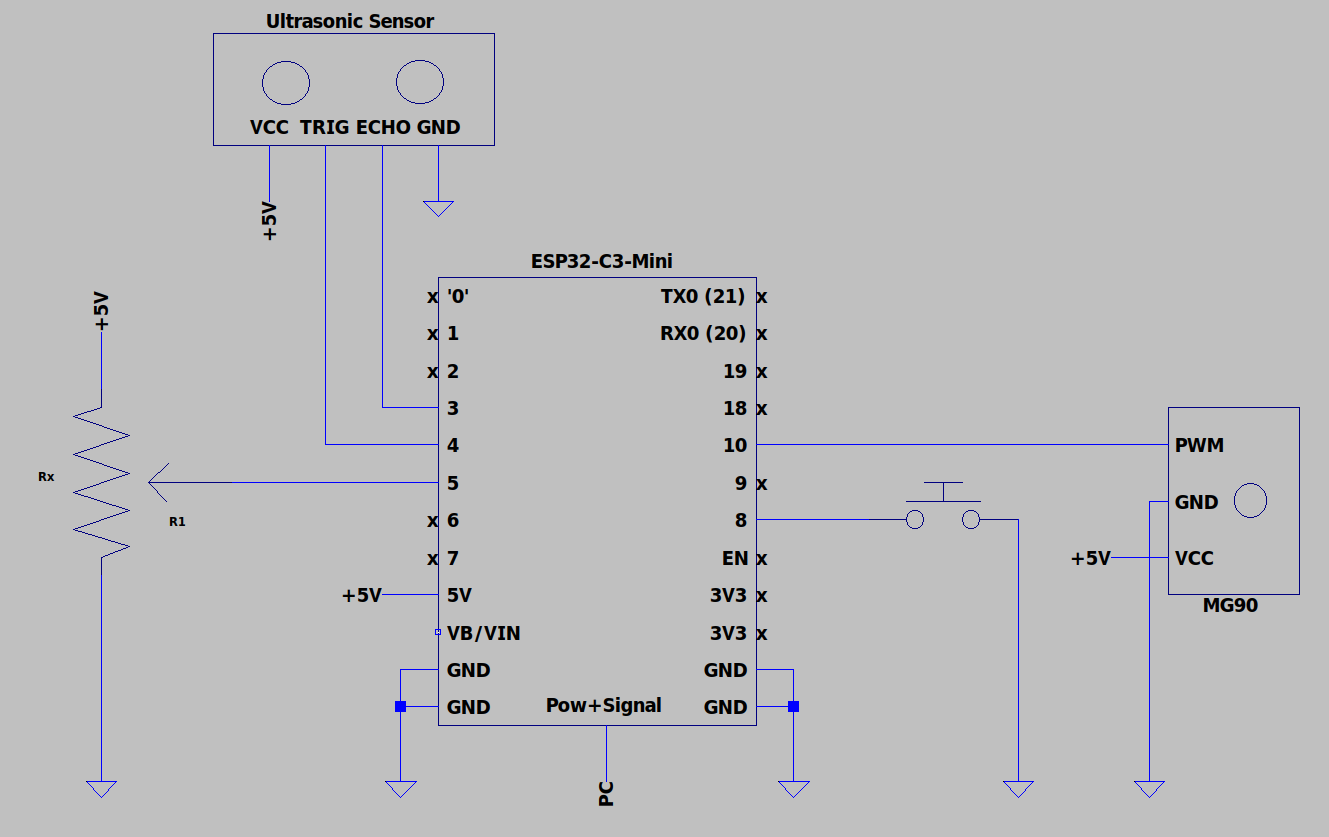
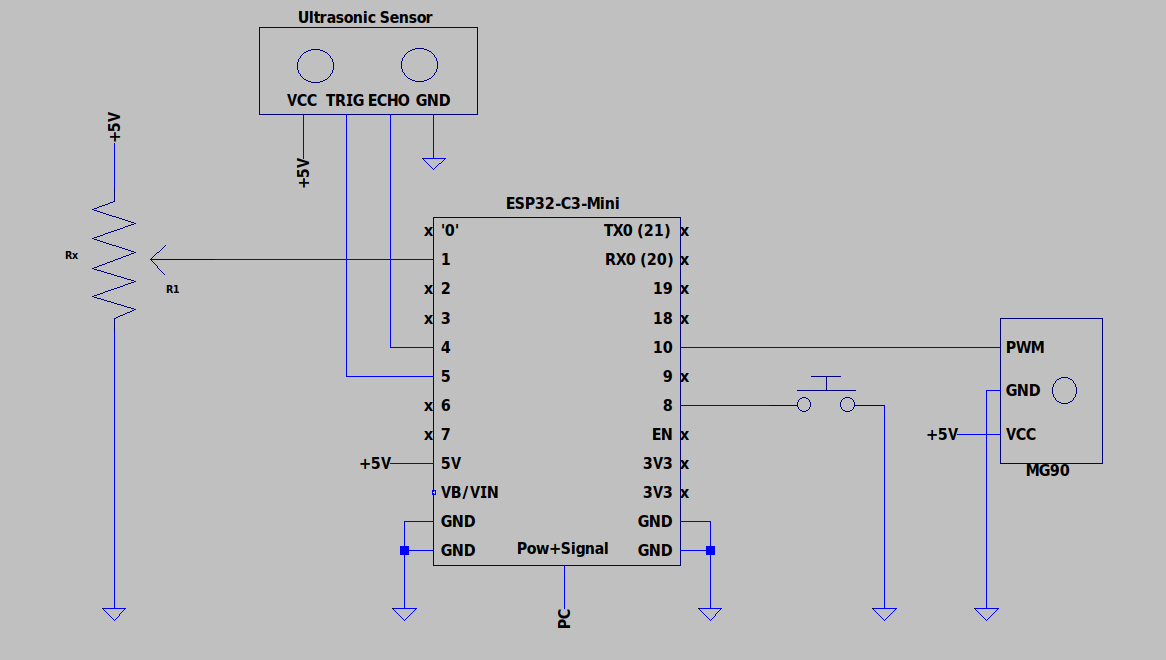
updated a bunch of stuff

diff --git a/src/mode_control.cpp b/src/mode_control.cpp
@@ -1,18 +1,17 @@
 #include "common.h"
 #include <Arduino.h>
 
-// ---------------- internal state ----------------
-static bool manualMode{false};
-
-static bool lastReading{HIGH};
-static bool stableState{HIGH};
-static unsigned long lastDebounceTime{0};
-static const unsigned long debounceDelay{20};  // Reduced from 50ms to 20ms
-
-static bool lastModeSnapshot{false};
+// ---------------- Shared state (must be at file scope) ----------------
+static bool manualMode{false};  // Shared between handleButton() and modeChangedToAuto()
 
 // ---------------- button handling ----------------
 bool handleButton() {
+    // Button debouncing state - local to this function
+    static bool lastReading{HIGH};
+    static bool stableState{HIGH};
+    static unsigned long lastDebounceTime{0};
+    static constexpr unsigned long debounceDelay{10};  // Reduced for faster response
+    
     bool reading{digitalRead(BUTTON_PIN)};
     unsigned long now{millis()};
 
@@ -37,6 +36,9 @@ bool handleButton() {
 
 // ---------------- transition detection ----------------
 bool modeChangedToAuto() {
+    // Transition tracking - local to this function
+    static bool lastModeSnapshot{false};
+    
     bool currentMode{manualMode};
     bool transitioned{lastModeSnapshot && !currentMode};
 

diff --git a/include/common.h b/include/common.h
@@ -1,15 +1,15 @@
 #pragma once
 
 // Ultrasonic sensor pins
-const int ECHO_PIN = 4;
-const int TRIG_PIN = 5;
+constexpr int ECHO_PIN{4};
+constexpr int TRIG_PIN{5};
 
 // Servo pin
-const int SERVO_PIN = 10;
+constexpr int SERVO_PIN{10};
 
 // Mode control pins
-const int BUTTON_PIN = 8;
-const int POT_PIN = 1;
+constexpr int BUTTON_PIN{8};
+constexpr int POT_PIN{1};
 
 // Functions
 float getDistance();
